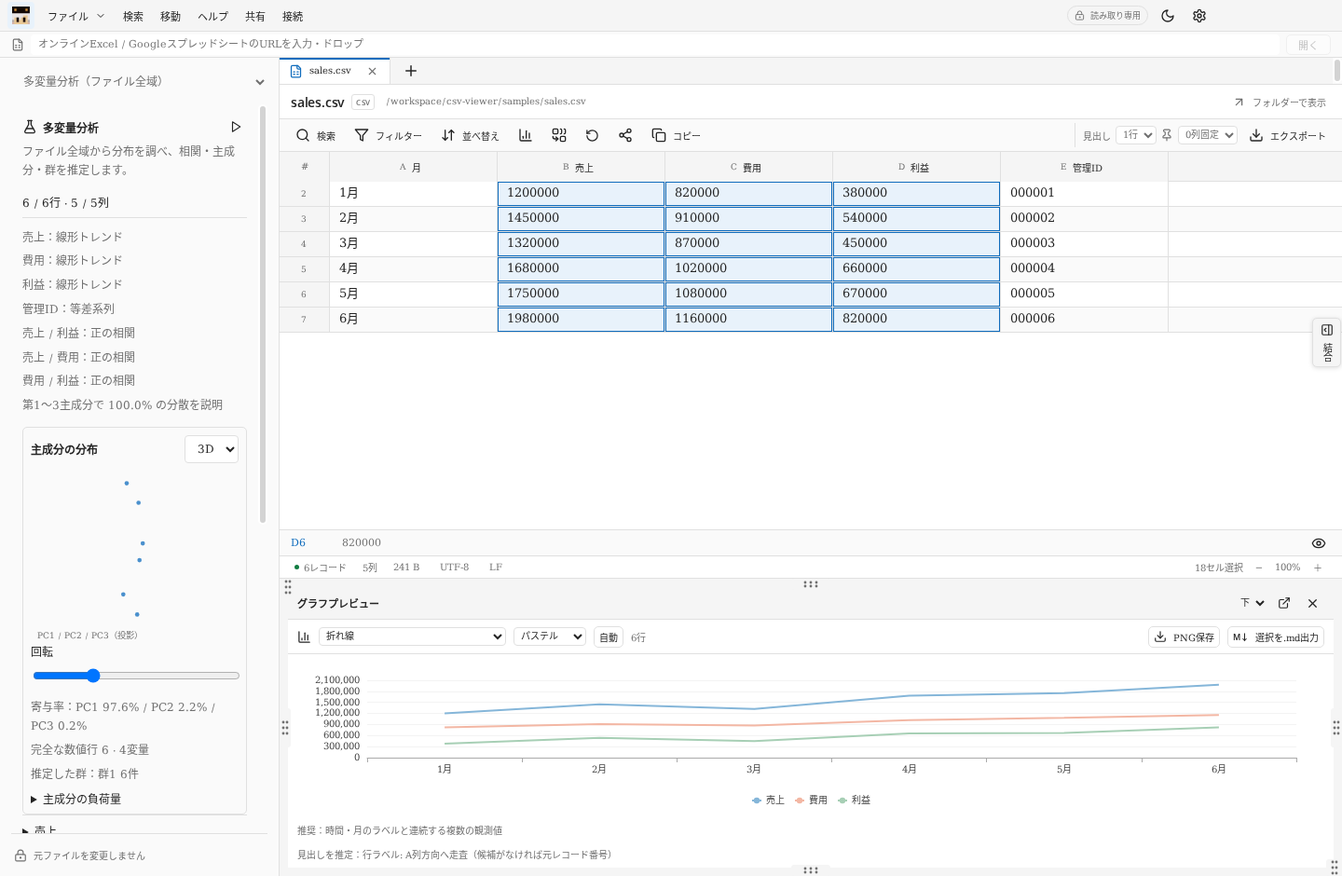
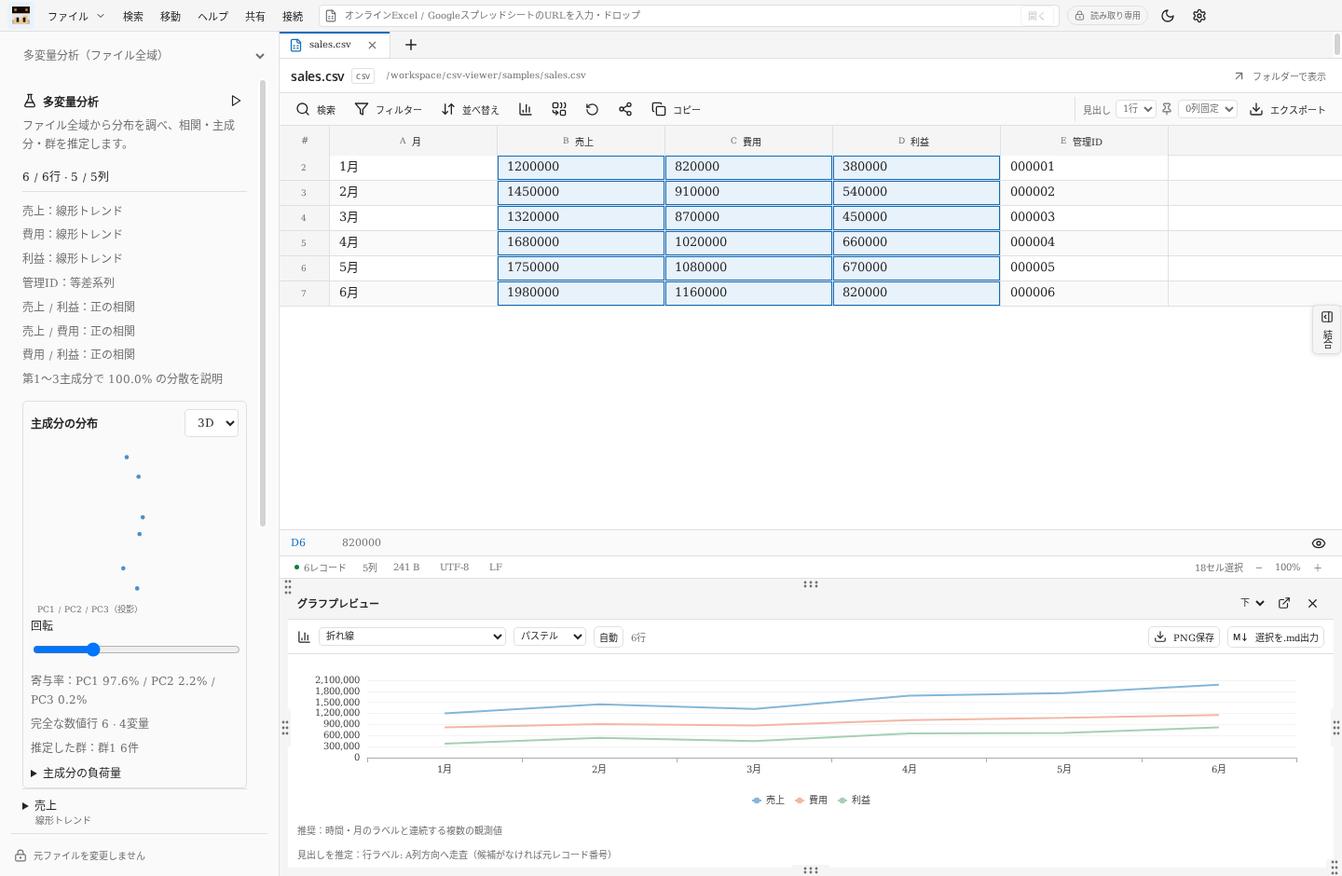
Move URL input into titlebar and publish a self-signed test build with observer credits

diff --git a/src/main.tsx b/src/main.tsx
@@ -5,6 +5,7 @@ import MarkdownIt from 'markdown-it';
 import DOMPurify from 'dompurify';
 import type { Meta, Row, Filter, Sort, Selection, Tab, Preferences } from './types';
 import { Sharing } from './sharing';
+import { About } from './about';
 import { AnalysisPanel } from './analysis-panel';
 import { defaultChartSettings, cloneChartSpec } from './chart-settings';
 import { DockPane, Dashboard, MergePanel, type Position } from './panels';
@@ -138,6 +139,7 @@ function App() {
       case 'preview': setPreviewOpen(v=>!v); break; case 'merge': setMergeOpen(v=>!v); break; case 'saveChart': saveChartRef.current?.(); break; case 'share': shareCurrent(); break;
       case 'goto': showModal('goto'); break; case 'export': if (meta) showModal('export'); break;
       case 'theme': savePrefs({ theme: prefs.theme === 'dark' ? 'light' : 'dark' }); break; case 'help': showModal('help'); break;
+      case 'about': showModal('about'); break;
     }
   };
   useEffect(() => { window.csv.icon().then(setAppIcon).catch(()=>{});window.csv.preferences().then(p => setPrefs(all => ({ ...all, ...p }))); const a = window.csv.onCommand(c => commands.current(c)); const b = window.csv.onProgress(p => setProgress(p.value)); const c = window.csv.onPaths(paths => openPaths(paths)); return () => { a(); b(); c(); }; }, []);
@@ -291,8 +293,7 @@ function App() {
   const columnSelect = (value: number, onChange: (n: number) => void, all = false) => <select value={value} onChange={e => onChange(Number(e.target.value))}>{all && <option value={-1}>すべての列</option>}{meta?.headers.map((h, c) => <option key={c} value={c}>{letter(c)} · {h.slice(0, 45)}</option>)}</select>;
 
   return <div className="app" onDragOver={e => e.preventDefault()} onDrop={e => {e.preventDefault();if(busy)return;const files=Array.from(e.dataTransfer.files).map(f=>window.csv.filePath(f)).filter(Boolean);if(files.length)openPaths(files);else {const url=(e.dataTransfer.getData('text/uri-list')||e.dataTransfer.getData('text/plain')).split(/\r?\n/).find(s=>!s.startsWith('#')&&s.trim());if(url)openUrl(url);}}}>
-    <header className="titlebar compact-titlebar"><nav className="menubar"><button className="icon-btn workspace-toggle" title="左ペインを開閉" aria-label="左ペインを開閉" aria-pressed={sidebar} onClick={()=>setSidebar(v=>!v)}>{appIcon?<img className="app-icon" src={appIcon} alt=""/>:sidebar?<PanelLeftClose size={17}/>:<PanelLeftOpen size={17}/>}</button><div className="file-menu"><button className={fileMenu ? 'menu-button active' : 'menu-button'} onClick={() => setFileMenu(!fileMenu)}>ファイル<ChevronDown size={12}/></button>{fileMenu && <><div className="menu-shield" onClick={() => setFileMenu(false)}/><div className="dropdown"><button onClick={openDialog}><FolderOpen size={16}/>開く…<kbd>Ctrl+O</kbd></button><button disabled={!meta} onClick={() => { setFileMenu(false); reload(); }}><RotateCw size={16}/>再読み込み<kbd>Ctrl+R</kbd></button><button disabled={!meta||meta.kind==='excel'} onClick={() => showModal('reading')}><Settings size={16}/>読み込み設定…</button><hr/><button disabled={!meta} onClick={() => showModal('export')}><Download size={16}/>エクスポート…<kbd>Ctrl+Shift+E</kbd></button><hr/><button disabled={!meta} onClick={() => { close(); setFileMenu(false); }}><X size={16}/>タブを閉じる<kbd>Ctrl+W</kbd></button></div></>}</div><button className="menu-button" onClick={() => commands.current('find')}>検索</button><button className="menu-button" onClick={() => commands.current('goto')} disabled={!meta}>移動</button><button className="menu-button" onClick={() => showModal('help')}>ヘルプ</button><button className="menu-button" disabled={!meta&&!blocks.length} onClick={shareCurrent}>共有</button><button className="menu-button" onClick={()=>{setShareTable(null);setSharingDocument(undefined);setModal('share');}}>接続</button></nav><div className="titlebar-right"><span className="readonly"><LockKeyhole size={11}/>読み取り専用</span><button className="icon-btn" title="テーマを切り替え" aria-label="テーマを切り替え" onClick={()=>commands.current('theme')}>{prefs.theme==='dark'?<Sun size={16}/>:<Moon size={16}/>}</button><button className="icon-btn" aria-label="設定" title="設定" onClick={()=>showModal('settings')}><Settings size={16}/></button></div></header>
-    <form className="online-bar" onSubmit={e=>{e.preventDefault();openUrl();}}><FileSpreadsheet size={14}/><input aria-label="オンラインExcel・スプレッドシートURL" value={urlValue} onChange={e=>setUrlValue(e.target.value)} placeholder="オンラインExcel / GoogleスプレッドシートのURLを入力・ドロップ"/><button disabled={!!busy||!urlValue.trim()} type="submit">開く</button></form>
+    <header className="titlebar compact-titlebar"><nav className="menubar"><button className="icon-btn workspace-toggle" title="左ペインを開閉" aria-label="左ペインを開閉" aria-pressed={sidebar} onClick={()=>setSidebar(v=>!v)}>{appIcon?<img className="app-icon" src={appIcon} alt=""/>:sidebar?<PanelLeftClose size={17}/>:<PanelLeftOpen size={17}/>}</button><div className="file-menu"><button className={fileMenu ? 'menu-button active' : 'menu-button'} onClick={() => setFileMenu(!fileMenu)}>ファイル<ChevronDown size={12}/></button>{fileMenu && <><div className="menu-shield" onClick={() => setFileMenu(false)}/><div className="dropdown"><button onClick={openDialog}><FolderOpen size={16}/>開く…<kbd>Ctrl+O</kbd></button><button disabled={!meta} onClick={() => { setFileMenu(false); reload(); }}><RotateCw size={16}/>再読み込み<kbd>Ctrl+R</kbd></button><button disabled={!meta||meta.kind==='excel'} onClick={() => showModal('reading')}><Settings size={16}/>読み込み設定…</button><hr/><button disabled={!meta} onClick={() => showModal('export')}><Download size={16}/>エクスポート…<kbd>Ctrl+Shift+E</kbd></button><hr/><button disabled={!meta} onClick={() => { close(); setFileMenu(false); }}><X size={16}/>タブを閉じる<kbd>Ctrl+W</kbd></button></div></>}</div><button className="menu-button" onClick={() => commands.current('find')}>検索</button><button className="menu-button" onClick={() => commands.current('goto')} disabled={!meta}>移動</button><button className="menu-button" onClick={() => showModal('help')}>ヘルプ</button><button className="menu-button" disabled={!meta&&!blocks.length} onClick={shareCurrent}>共有</button><button className="menu-button" onClick={()=>{setShareTable(null);setSharingDocument(undefined);setModal('share');}}>接続</button></nav><form className="online-bar" onSubmit={e=>{e.preventDefault();openUrl();}}><FileSpreadsheet size={14}/><input aria-label="オンラインExcel・スプレッドシートURL" value={urlValue} onChange={e=>setUrlValue(e.target.value)} placeholder="オンラインExcel / GoogleスプレッドシートのURLを入力・ドロップ"/><button disabled={!!busy||!urlValue.trim()} type="submit">開く</button></form><div className="titlebar-right"><span className="readonly"><LockKeyhole size={11}/>読み取り専用</span><button className="icon-btn" title="テーマを切り替え" aria-label="テーマを切り替え" onClick={()=>commands.current('theme')}>{prefs.theme==='dark'?<Sun size={16}/>:<Moon size={16}/>}</button><button className="icon-btn" aria-label="設定" title="設定" onClick={()=>showModal('settings')}><Settings size={16}/></button></div></header>
     <div className="workbench">
       {sidebar && <aside className="sidebar" style={{width:prefs.sidebarWidth||260}}><div className="sidebar-heading"><select aria-label="左サイドのモード" value={sideMode} onChange={e=>setSideMode(e.target.value)}><option value="workspace">ワークスペース</option><option value="selection">変量分析（選択範囲）</option><option value="multivariate">多変量分析（ファイル全域）</option></select></div>{sideMode!=='workspace'?<AnalysisPanel tab={selectedTab} all={sideMode==='multivariate'}/>:<><button className="open-button" onClick={openDialog} disabled={!!busy}><FolderOpen size={17}/>ファイルを開く<Plus size={15}/></button><div className="section-label">開いているファイル <span>{tabs.length}</span></div><div className="file-list">{tabs.map(t => <button key={t.meta.id} title={t.meta.path} className={'file-item ' + (t.meta.id === activeId ? 'selected' : '')} onClick={() => setActiveId(t.meta.id)}>{['csv','excel'].includes(t.meta.kind) ? <FileSpreadsheet size={17}/> : <FileText size={17}/>}<span>{t.meta.name||nameOf(t.meta.path)}</span><small onClick={e => { e.stopPropagation(); close(t.meta.id); }}><X size={13}/></small></button>)}{!tabs.length && <p className="sidebar-empty">開いているファイルはありません</p>}</div>
       {meta && isCsv ? <><div className="section-label">列 <span>{columns.length}/{meta.columns}</span></div><div className="column-list">{meta.headers.map((h, c) => <label key={c} title={h}><input type="checkbox" checked={!selectedTab!.hidden.includes(c)} onChange={e => { const hidden = e.target.checked ? selectedTab!.hidden.filter(v => v !== c) : [...selectedTab!.hidden, c]; patchTab({ hidden }); }}/><span className="column-letter">{letter(c)}</span><span>{h}</span>{frozenColumns.includes(c) && <Pin size={11}/>}</label>)}</div></> : <><div className="section-label">最近開いたファイル</div><div className="recent-list">{prefs.recent?.slice(0, 8).map(path => <button key={path} title={path} onClick={() => openPaths([path])}><FileText size={14}/><span>{nameOf(path)}</span></button>)}</div></>}
@@ -322,7 +323,7 @@ function App() {
     {error && <div className="error-banner" role="alert"><Info size={18}/><span>{error}</span><button className="icon-btn" aria-label="エラーを閉じる" onClick={() => setError('')}><X size={16}/></button></div>}
     {toast && <div className="toast"><Check size={17}/>{toast}</div>}
     {busy && <div className="busy-overlay"><div className="busy-card"><div className="spinner"/><strong>{busy}</strong><progress value={progress} max={1}/><p>{Math.round(progress*100)}%</p></div></div>}
-    {modal && <div className="modal-overlay" onClick={() => { if (!busy) setModal(''); }}><section className={'modal ' + (['filters','sorts','help'].includes(modal) ? 'wide' : '')} role="dialog" aria-modal="true" onClick={e => e.stopPropagation()}>{modal !== 'share' && <div className="modal-heading"><h2>{{ filters:'フィルター',sorts:'並べ替え',reading:'読み込み設定',export:'エクスポート',settings:'表示設定',goto:'行・列へ移動',help:'操作ガイド',cell:'セルの内容' }[modal]}</h2><button className="icon-btn" aria-label="ダイアログを閉じる" onClick={() => setModal('')}><X size={18}/></button></div>}
+    {modal && <div className="modal-overlay" onClick={() => { if (!busy) setModal(''); }}><section className={'modal ' + (['filters','sorts','help'].includes(modal) ? 'wide' : '')} role="dialog" aria-modal="true" onClick={e => e.stopPropagation()}>{modal !== 'share' && <div className="modal-heading"><h2>{{ filters:'フィルター',sorts:'並べ替え',reading:'読み込み設定',export:'エクスポート',settings:'表示設定',goto:'行・列へ移動',help:'操作ガイド',cell:'セルの内容',about:'このアプリについて' }[modal]}</h2><button className="icon-btn" aria-label="ダイアログを閉じる" onClick={() => setModal('')}><X size={18}/></button></div>}
       {modal === 'share' && <Sharing table={shareTable} document={sharingDocument} onClose={()=>setModal('')}/>}
       {modal === 'filters' && <><p className="modal-description">すべての条件に一致するレコードを表示します。元データは変更されません。</p><div className="rules">{draftFilters.map((f,i) => <div className="filter-rule" key={i}>{columnSelect(f.column,n => setDraftFilters(all => all.map((v,j) => j === i ? {...v,column:n}:v)),true)}<select value={f.mode} onChange={e => setDraftFilters(all => all.map((v,j) => j === i ? {...v,mode:e.target.value}:v))}>{MODES.map(([value,label]) => <option key={value} value={value}>{label}</option>)}</select><input aria-label={`条件${i+1}の値`} placeholder="比較する値" value={f.value} disabled={['empty','notEmpty'].includes(f.mode)} onChange={e => setDraftFilters(all => all.map((v,j) => j === i ? {...v,value:e.target.value}:v))}/><label title="大文字・小文字を区別"><input type="checkbox" checked={!!f.caseSensitive} onChange={e => setDraftFilters(all => all.map((v,j) => j === i ? {...v,caseSensitive:e.target.checked}:v))}/>Aa</label><button aria-label={`条件${i+1}を削除`} className="icon-btn" onClick={() => setDraftFilters(all => all.filter((_,j) => j !== i))}><X size={16}/></button></div>)}</div><button className="quiet-button" disabled={draftFilters.length >= 30} onClick={() => setDraftFilters(all => [...all,{column:-1,mode:'contains',value:''}])}><Plus size={15}/>条件を追加</button><div className="modal-actions"><button onClick={() => configure({filters:[]})}>解除</button><button className="primary" onClick={() => configure({filters:draftFilters})}>適用</button></div></>}
       {modal === 'sorts' && <><p className="modal-description">上の条件から順に並べ替えます。同じ値の順序は保持されます。</p><div className="rules">{draftSorts.map((s,i) => <div className="sort-rule" key={i}><span>{i+1}</span>{columnSelect(s.column,n => setDraftSorts(all => all.map((v,j) => j === i ? {...v,column:n}:v)))}<select value={s.direction} onChange={e => setDraftSorts(all => all.map((v,j) => j === i ? {...v,direction:e.target.value}:v))}><option value="asc">昇順 ↑</option><option value="desc">降順 ↓</option></select><select value={s.mode} onChange={e => setDraftSorts(all => all.map((v,j) => j === i ? {...v,mode:e.target.value}:v))}><option value="text">自然順（文字列）</option><option value="numeric">数値順（精度保持）</option></select><button className="icon-btn" onClick={() => setDraftSorts(all => all.filter((_,j) => j !== i))}><X size={16}/></button></div>)}</div><button className="quiet-button" disabled={draftSorts.length >= 8} onClick={() => setDraftSorts(all => [...all,{column:0,direction:'asc',mode:'text'}])}><Plus size={15}/>並べ替え列を追加</button><div className="modal-actions"><button onClick={() => configure({sorts:[]})}>元の順序に戻す</button><button className="primary" onClick={() => configure({sorts:draftSorts})}>適用</button></div></>}
@@ -331,7 +332,8 @@ function App() {
       {modal === 'settings' && <>{appIcon&&<img className="settings-app-icon" src={appIcon} alt="アプリアイコン"/>}<button className="quiet-button" onClick={()=>window.csv.chooseIcon().then(image=>{if(image)setAppIcon(image);}).catch(e=>setError(String(e)))}>アプリアイコンを選択（PNG / ICO）</button><button className="quiet-button" onClick={()=>{setShareTable(null);setSharingDocument(undefined);setModal('share');}}>アカウント・共有の接続設定を開く</button><p className="modal-description">Microsoft 365 / Fluentの配色を参考にしています。</p><label className="form-field">カラープロファイル<select value={prefs.theme} onChange={e => savePrefs({theme:e.target.value})}><option value="light">ライト</option><option value="dark">ダーク</option></select></label><label className="form-field">アクセントカラー<select value={prefs.accent} onChange={e => savePrefs({accent:e.target.value})}><option value="#0f6cbd">Office ブルー</option><option value="#107c41">Excel グリーン</option><option value="#5b5fc7">Teams パープル</option></select></label><label className="form-field">フォント<select value={prefs.fontFamily} onChange={e => savePrefs({fontFamily:e.target.value})}><option value="Segoe UI">Segoe UI</option><option value="Yu Gothic UI">游ゴシック UI</option><option value="Meiryo">メイリオ</option><option value="Consolas">Consolas</option></select></label><label className="form-field">文字サイズ<input type="number" min={10} max={24} value={prefs.fontSize} onChange={e => savePrefs({fontSize:Math.max(10,Math.min(24,Number(e.target.value)||13))})}/></label><div className="modal-actions"><button className="primary" onClick={() => setModal('')}>完了</button></div></>}
       {modal === 'goto' && <><p className="modal-description">現在表示されている順序の行と列へ移動します。</p><label className="form-field">行番号 (1〜{count(meta?.count||0)})<input autoFocus type="number" min={1} max={meta?.count} value={gotoRow} onChange={e => setGotoRow(e.target.value)}/></label><label className="form-field">列番号 (1〜{meta?.columns||0})<input type="number" min={1} max={meta?.columns} value={gotoCol} onChange={e => setGotoCol(e.target.value)}/></label><div className="modal-actions"><button className="primary" onClick={() => { revealCell((Number(gotoRow)||1)-1,(Number(gotoCol)||1)-1); setModal(''); }}>移動</button></div></>}
       {modal === 'cell' && <><p className="modal-description">表示上の省略がない元のセル内容です。</p><textarea className="cell-full" readOnly value={cellValue}/><div className="modal-actions"><button onClick={() => window.csv.clipboard(cellValue).then(() => notify('セルをコピーしました'))}><Copy size={15}/>コピー</button><button className="primary" onClick={() => setModal('')}>閉じる</button></div></>}
-      {modal === 'help' && <div className="help-content"><p>CSV nyaan ViewerはCSV・Markdown・TXTを直接読み込むWindows用ビューワーです。元ファイルを保存・更新する操作はありません。</p><table><tbody>{[['Ctrl+O','ファイルを開く（複数選択可）'],['Ctrl+F / F3 / Shift+F3','検索 / 次を検索 / 前を検索'],['Ctrl+G','行・列へ移動'],['Ctrl+C / Ctrl+A','選択範囲をコピー / 全選択'],['Shift+クリック・矢印','選択範囲を広げる'],['Ctrl+矢印 / Ctrl+Shift+矢印','連続データの端へ移動 / 範囲拡張'],['Ctrl+Space / Shift+Space','列選択 / 行選択'],['Home / End / Ctrl+Home / Ctrl+End','行端 / 表の先頭・末尾へ移動'],['Ctrl+R / Ctrl+W','再読み込み / タブを閉じる'],['Ctrl+Shift+E','ファイル → エクスポート'],['Ctrl+Shift+L','ライト／ダーク切り替え']].map(([key,value]) => <tr key={key}><td><kbd>{key}</kbd></td><td>{value}</td></tr>)}</tbody></table><p>見出し中央で行・列を選択し、ドラッグで複数選択します。見出しの左側で表示を切り替え、右側で昇順・降順・元の順序を選べます。右クリックで操作メニューを開けます。境界をドラッグすると幅を変更できます。境界のダブルクリックで、画面上の内容に幅を合わせます。セルのダブルクリックで全文を表示します。</p><p>文字化けや区切りの誤判定は「ファイル → 読み込み設定」で指定し直せます。自動文字コード判定はBOM・UTF-8・UTF-16を優先し、その他はCP932を候補とします。</p><p>大容量CSVはレコードの位置だけを保持して必要な部分を読みます。Markdownプレビューは16 MiB以内です。大きい文書はソース表示で閲覧できます。</p><p className="help-footnote">Modern CSVとは独立した実装です。現行無料版の公式機能表は、この環境の通信制限により照合できていません。</p></div>}
+      {modal === 'about' && <About icon={appIcon} onError={setError}/> }
+      {modal === 'help' && <div className="help-content"><p>CSV nyaan ViewerはCSV・Markdown・TXTを直接読み込むWindows用ビューワーです。元ファイルを保存・更新する操作はありません。</p><table><tbody>{[['Ctrl+O','ファイルを開く（複数選択可）'],['Ctrl+F / F3 / Shift+F3','検索 / 次を検索 / 前を検索'],['Ctrl+G','行・列へ移動'],['Ctrl+C / Ctrl+A','選択範囲をコピー / 全選択'],['Shift+クリック・矢印','選択範囲を広げる'],['Ctrl+矢印 / Ctrl+Shift+矢印','連続データの端へ移動 / 範囲拡張'],['Ctrl+Space / Shift+Space','列選択 / 行選択'],['Home / End / Ctrl+Home / Ctrl+End','行端 / 表の先頭・末尾へ移動'],['Ctrl+R / Ctrl+W','再読み込み / タブを閉じる'],['Ctrl+Shift+E','ファイル → エクスポート'],['Ctrl+Shift+L','ライト／ダーク切り替え']].map(([key,value]) => <tr key={key}><td><kbd>{key}</kbd></td><td>{value}</td></tr>)}</tbody></table><p>見出し中央で行・列を選択し、ドラッグで複数選択します。見出しの左側で表示を切り替え、右側で昇順・降順・元の順序を選べます。右クリックで操作メニューを開けます。境界をドラッグすると幅を変更できます。境界のダブルクリックで、画面上の内容に幅を合わせます。セルのダブルクリックで全文を表示します。</p><p>文字化けや区切りの誤判定は「ファイル → 読み込み設定」で指定し直せます。自動文字コード判定はBOM・UTF-8・UTF-16を優先し、その他はCP932を候補とします。</p><p>大容量CSVはレコードの位置だけを保持して必要な部分を読みます。Markdownプレビューは16 MiB以内です。大きい文書はソース表示で閲覧できます。</p><button className="quiet-button" onClick={()=>showModal('about')}>このアプリについて</button><p className="help-footnote">Modern CSVとは独立した実装です。現行無料版の公式機能表は、この環境の通信制限により照合できていません。</p></div>}
     </section></div>}
   </div>;
 }

diff --git a/src/style.css b/src/style.css
@@ -19,3 +19,5 @@
 .pane-note{white-space:nowrap;overflow:hidden;text-overflow:ellipsis;max-height:26px}.reopen-top{top:1px;left:50%;transform:translateX(-50%)}.toolbar>select[aria-label="ワークシート"]{font-size:10px;max-width:120px;padding:3px}.toolbar{min-width:0;flex-wrap:wrap}
 .main-panel{position:relative}.preview-reopen.reopen-left{margin-top:50px}.merge-reopen.reopen-left{margin-top:100px}
 .app-icon{width:19px;height:19px;object-fit:contain}.settings-app-icon{width:48px;height:48px;object-fit:contain;display:block;margin-bottom:8px}
+.compact-titlebar .online-bar{flex:1 1 0;min-width:100px;height:24px;min-height:24px;padding:0 5px;gap:4px;border:1px solid var(--line);border-radius:4px;background:var(--bg);-webkit-app-region:no-drag}.compact-titlebar .online-bar>svg{flex-shrink:0}.compact-titlebar .online-bar input{width:0;height:22px;padding:2px 4px;font-size:10px}.compact-titlebar .online-bar button{padding:1px 7px;font-size:10px;flex-shrink:0}.compact-titlebar .titlebar-right{margin-left:0;flex-shrink:0}
+.about-content{font-size:12px;line-height:1.8}.about-identity{display:flex;align-items:center;gap:14px;margin:8px 0 18px}.about-identity img{width:48px;height:48px;object-fit:contain}.about-identity strong,.about-identity span{display:block}.about-identity strong{font-size:19px}.about-identity span{color:var(--muted);font-size:11px}.about-content dl{margin:18px 0}.about-content dt{font-size:11px;color:var(--muted)}.about-content dd{margin:0;font-weight:600}.about-links{display:grid;gap:8px}.about-links a{display:flex;align-items:center;gap:9px;padding:8px 10px;border:1px solid var(--line);border-radius:5px;color:var(--accent);text-decoration:none}.about-links a:hover{background:var(--hover)}.about-links a:focus-visible{outline:2px solid var(--accent);outline-offset:2px}.about-links small{display:block;font-size:11px;color:var(--muted);overflow-wrap:anywhere}

diff --git a/src/about.tsx b/src/about.tsx
@@ -1,0 +1,13 @@
+import React from 'react';
+import { ExternalLink } from 'lucide-react';
+import appInfo from '../electron/app-info.json';
+import { version } from '../package.json';
+
+export function About({ icon, onError }: { icon: string | null; onError: (message: string) => void }) {
+  return <div className="about-content">
+    <div className="about-identity">{icon && <img src={icon} alt=""/>}<div><strong>CSV nyaan Viewer</strong><span>バージョン {version}</span></div></div>
+    <p>CSV・Excel・Markdown・テキストを直接開く、読み取り専用のビューワーです。</p>
+    <dl><dt>オブザーバー</dt><dd>{appInfo.observer}</dd></dl>
+    <div className="about-links">{appInfo.links.map(link => <a key={link.url} href={link.url} onClick={e => { e.preventDefault(); window.csv.openExternal(link.url).catch(error => onError(String(error))); }}><ExternalLink size={14}/><span>{link.label}<small>{link.url}</small></span></a>)}</div>
+  </div>;
+}

diff --git a/docs/code-signing.md b/docs/code-signing.md
@@ -1,0 +1,54 @@
+# Windowsコード署名
+
+現在は検証環境向けの **自己署名コード署名証明書** を使用します。署名者のテスト名とオブザーバー表示は **BLINP_B(furoneko+)** です。関連リンクは https://github.com/yosu-yosu と https://yosuyosu.co.jp/ です。アプリの「ヘルプ → このアプリについて」にも掲載しています。
+
+自己署名は認証局による本人・組織確認を受けた証明書ではありません。関連リンクやオブザーバー表示も第三者認証を示しません。コード署名は実行ファイルの署名者と改変を確認するもので、アプリの安全性全般を認証するものではありません。
+
+## 今回の検証用署名
+
+GitHub ActionsのWindows runnerでRSA 3072 / SHA-256のコード署名証明書を作り、実行ファイルにSHA-256で署名します。有効期間は90日です。秘密鍵はエクスポート不可としてrunnerの個人証明書ストアに作成し、公開証明書 `test-signing.cer` だけを配布します。秘密鍵・PFX・パスワードはソースやZIPに含めません。ビルドの終了時にrunnerから証明書と鍵を削除します。
+
+署名後に `Get-AuthenticodeSignature` の `Valid` を確認し、署名・公開証明書・ZIPに同梱する証明書の拇印と内容が一致することも検証します。この `Valid` は、自己署名証明書を一時的に信頼登録したビルド環境での結果です。他のWindows環境には自動的に信頼されません。
+
+公開証明書をZIPの実行ファイルと同じフォルダーに同梱し、Releasesにも添付します。`SIGNATURE.json` には実行ファイルのSHA-256、署名者・発行者・拇印・有効期限と `self-signed-test` の検証条件を記録します。証明書と検証結果も `SHA256SUMS.txt` の対象です。
+
+毎回の自己署名ビルドで新しい鍵を作ります。次回配布物では拇印が変わり、検証環境での信頼登録も更新が必要です。固定の署名者鍵を継続利用する場合は、後述の証明書方式へ切り替えて安全な署名基盤を設定してください。
+
+## 検証用Windowsでの利用
+
+アプリ起動時に証明書を自動登録する処理はありません。まず展開フォルダーで次のコマンドを実行し、証明書の拇印がReleasesの `SIGNATURE.json` と一致することを確認します。
+
+```powershell
+certutil -dump .\test-signing.cer
+Get-AuthenticodeSignature -LiteralPath '.\CSV nyaan Viewer.exe' | Format-List Status,StatusMessage,SignerCertificate
+```
+
+この証明書を信頼する検証用アカウントに限って、手動で登録できます。
+
+```powershell
+Import-Certificate -FilePath .\test-signing.cer -CertStoreLocation Cert:\CurrentUser\Root
+Import-Certificate -FilePath .\test-signing.cer -CertStoreLocation Cert:\CurrentUser\TrustedPublisher
+Get-AuthenticodeSignature -LiteralPath '.\CSV nyaan Viewer.exe' | Format-List Status,StatusMessage,SignerCertificate
+```
+
+未登録の環境では信頼されない署名として扱われます。自己署名だけではSmartScreenの警告が消えることを保証しません。検証を終えたら、この拇印の証明書を対象のストアから削除できます。
+
+## ローカルで検証用にビルド
+
+WindowsのPowerShellで証明書作成スクリプトをドットソースし、同じプロセスからビルドします。
+
+```powershell
+. .\scripts\new-test-certificate.ps1
+npm run dist:win -- --publish never
+.\scripts\verify-windows-signature.ps1
+```
+
+この操作は自分のWindowsアカウントの個人・信頼ルートストアに検証用証明書を登録します。個人ストアの鍵はエクスポート不可です。GitHub Actionsでは後処理で削除しますが、ローカルでは検証後に自分で削除してください。
+
+## 将来、認証局の証明書へ切り替える場合
+
+Windows Authenticode対応のコード署名証明書を認証局へ申請します。発行には本人・組織確認と契約が必要です。署名者名は発行証明書のSubjectで決まり、アプリのオブザーバー表示とは別です。
+
+PFX方式ならGitHubの「Settings → Secrets and variables → Actions」に `WINDOWS_CSC_LINK`（PFXのBase64など）と `WINDOWS_CSC_KEY_PASSWORD` を登録し、Actionsの手動実行で `signing_mode=certificate` を選びます。証明書・秘密鍵・パスワードをソースコードやチャットへ貼り付けないでください。USBトークン・HSM・クラウド署名は、提供元に応じた専用設定が必要です。
+
+証明書方式も署名必須として検証します。署名や検証に失敗した場合は公開しません。`signing_mode=unsigned` は未署名のビルドを明示的に選ぶ場合だけ使用します。

diff --git a/docs/release-notes.md b/docs/release-notes.md
@@ -1,12 +1,14 @@
-Windows 10 / 11（x64）向け CSV nyaan Viewer 1.1.2です。
+Windows 10 / 11（x64）向け CSV nyaan Viewer 1.1.3です。
 
-「Assets」の `CSV-nyaan-Viewer-1.1.2-Windows-x64.zip` をすべて展開して `CSV nyaan Viewer.exe` を起動してください。Node.jsは不要です。
+「Assets」の `CSV-nyaan-Viewer-1.1.3-Windows-x64.zip` をすべて展開して `CSV nyaan Viewer.exe` を起動してください。Node.jsは不要です。
 
-- 指定された画像を既定アイコンとしてWindows実行ファイル・ウィンドウ・タスクバー・アプリ左上に組み込みました。
-- Windows用ICOに16〜256 pxの7サイズを収録。元画像の絵柄を保持しています。
-- 配布前に実行ファイルのアイコンリソースと同梱PNGを検証します。
-- 「設定 → アプリアイコンを選択」で個別に変更する機能も引き続き利用できます。
+- URL入力欄を「接続」の右側、「読み取り専用」の左側へ統合し、独立した入力行をなくしました。
+- 「ヘルプ → このアプリについて」にオブザーバー **BLINP_B(furoneko+)** を掲載。 https://github.com/yosu-yosu と https://yosuyosu.co.jp/ をブラウザで開けます。
+- 検証環境向けの自己署名コード署名証明書で実行ファイルへSHA-256署名。公開証明書 `test-signing.cer` を同梱します。秘密鍵は配布しません。
+- 配布前にAuthenticodeを検証し、実際の検証状態・署名者・実行ファイルのSHA-256を `SIGNATURE.json` に記録します。
 
-前版のExcel・オンライン読み取り、グラフ・配色・分析、範囲選択、ペイン調整機能を含みます。コア／API契約／Excel／分析／描画テスト58件とElectron UIテスト16件を実行するWindows自動ビルドです。ソースZIP・SHA-256チェックサムを添付しています。
+前版の指定アイコン、Excel・オンライン読み取り、グラフ・配色・分析、範囲選択、ペイン調整機能を含みます。コア／API契約／Excel／分析／描画／署名設定テスト61件とElectron UIテスト16件を実行するWindows自動ビルドです。ソースZIP・SHA-256チェックサム・署名検証結果を添付しています。
+
+自己署名は認証局による本人・組織確認を受けた証明書ではありません。他のWindows環境で署名を信頼する場合は、公開証明書の拇印を確認して検証用アカウントへ手動登録してください。手順は [Windowsコード署名](https://github.com/BLIMP-B/csv-nyaan-viewer/blob/main/docs/code-signing.md) を参照してください。
 
 外部アカウントの実接続にはOAuthアプリ登録が必要で、実アカウントでの接続は未検証です。3Dは投影表示、地図は国単位です。Excel固有のグラフオブジェクト・ピボット等の完全互換はありません。Modern CSV無料版との完全な機能照合も未完了です。

diff --git a/docs/features.md b/docs/features.md
@@ -28,6 +28,8 @@
 | ペイン | 既定下段／右側、上下左右、全境界ドラッグ、閉領域の再表示、上下左右・左上右下の6箇所のドット型つまみで幅・高さ／両方を調整、サイズ保存・初期サイズ復元、別ウィンドウ | UIテスト |
 | カラー | M365 / Fluent参考のライト・ダーク・青／緑／紫 | UIテスト |
 | アイコン | 指定画像をWindows実行ファイル・ウィンドウ・タスクバー・左上に組み込み、設定で変更可能 | 実行ファイルのリソース／同梱PNG検証・UIテスト |
+| アプリ情報 | オブザーバーBLINP_B(furoneko+)と関連リンクを表示 | UIテスト |
+| 配布署名 | 検証用自己署名、公開証明書同梱、Authenticode検証と結果出力 | 設定テスト／Windows検証。自己署名のため利用環境での信頼登録が必要 |
 | アカウント共有 | Google / Microsoft OAuth PKCE、GitHub Device、Bot/Webhook | 契約テスト。実接続は未検証 |
 
 無料版の「すべて」を満たす最終判断には、公式機能一覧の取得後に差分を確認する必要があります。Modern CSVの独自メニュー構成やショートカット、無料版に含まれるか未確認の編集系機能について、互換・網羅を保証していません。現在のアプリは読み取り専用で、通常の閲覧では元ファイルを書き換えません。
